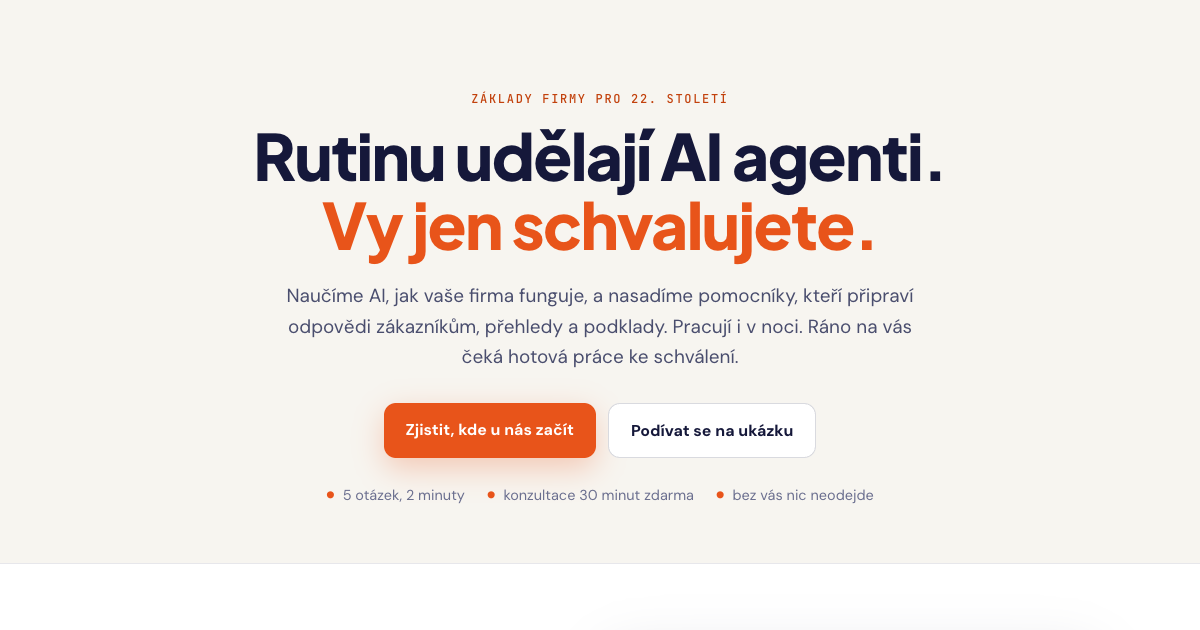
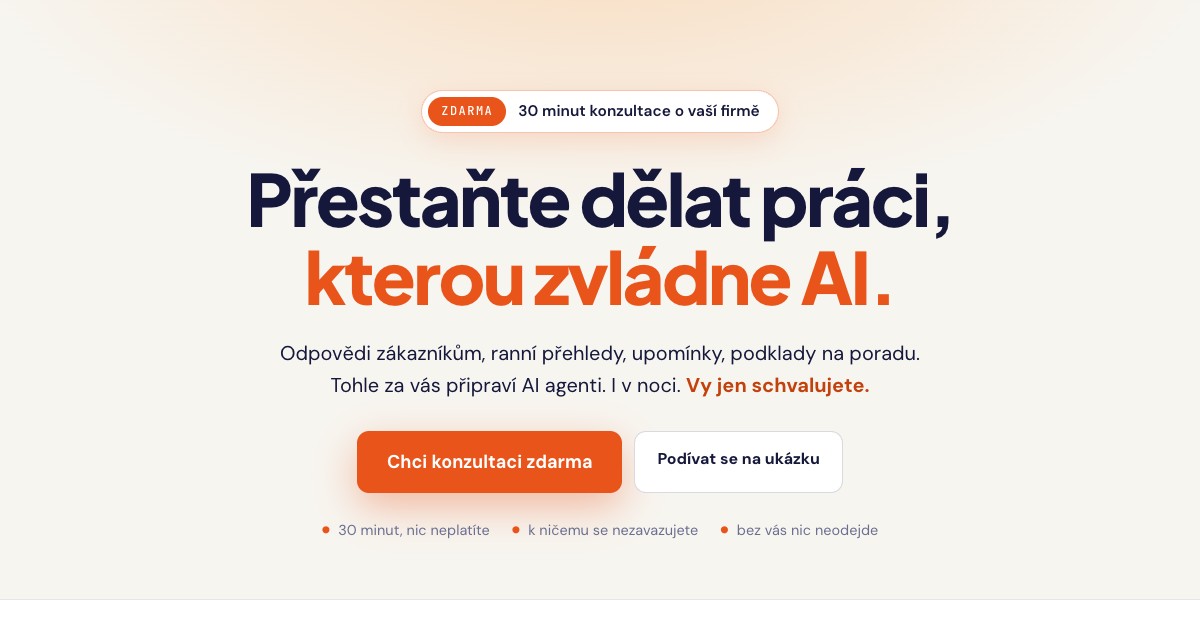
Krátká verze: důraz na konzultaci 30 minut zdarma, grafický postup ve čtyřech krocích

diff --git a/start/index.html b/start/index.html
@@ -3,14 +3,14 @@
 <head>
 <meta charset="utf-8">
 <meta name="viewport" content="width=device-width, initial-scale=1">
-<title>Fundament 22 — rutinu udělají AI agenti, vy schvalujete</title>
+<title>AI agenti pro firmy: konzultace 30 minut zdarma | Fundament 22</title>
 <meta name="description" content="Naučíme AI, jak vaše firma funguje, a nasadíme agenty, kteří připraví odpovědi zákazníkům, přehledy a podklady. Pět otázek a uvidíte, kde u vás začít. Konzultace 30 minut zdarma.">
 <meta name="robots" content="noindex, nofollow">
 <link rel="canonical" href="https://adamku8.github.io/fundament22/start/">
 <meta property="og:type" content="website">
 <meta property="og:locale" content="cs_CZ">
 <meta property="og:site_name" content="Fundament 22">
-<meta property="og:title" content="Fundament 22 — rutinu udělají AI agenti, vy schvalujete">
+<meta property="og:title" content="Přestaňte dělat práci, kterou zvládne AI — Fundament 22">
 <meta property="og:description" content="Pět otázek a uvidíte tři agenty, kteří by u vás mohli běžet první. Konzultace 30 minut zdarma.">
 <meta property="og:url" content="https://adamku8.github.io/fundament22/start/">
 <meta property="og:image" content="https://adamku8.github.io/fundament22/assets/og-start.png">
@@ -85,6 +85,41 @@ section{padding:72px 0}
 .fit .yes li::before{content:"✓";color:#127552}.fit .nope li::before{content:"✕";color:#B3261E}
 .demo{display:flex;flex-wrap:wrap;gap:18px 30px;align-items:center;justify-content:space-between}
 .demo p{color:var(--ink2);margin-top:8px;max-width:560px}
+.hero{background:radial-gradient(900px 420px at 50% -80px,rgba(255,154,61,.28),transparent 70%)}
+.hero h1{font-size:clamp(38px,7vw,72px);letter-spacing:-.035em}
+.hero .lead{font-size:20px;color:var(--ink)}
+.hero .lead b{color:var(--or2)}
+.free{display:inline-flex;align-items:center;gap:12px;margin-bottom:26px;padding:6px 18px 6px 6px;border-radius:999px;background:#fff;border:1px solid rgba(232,84,26,.35);box-shadow:0 8px 26px rgba(232,84,26,.14);font-weight:600;font-size:15.5px;color:var(--ink);text-decoration:none}
+.free b{background:var(--or);color:#fff;border-radius:999px;padding:5px 13px;font-family:var(--mono);font-size:12px;letter-spacing:.12em;text-transform:uppercase}
+.btn.big{font-size:18px;padding:17px 30px;box-shadow:0 14px 40px rgba(232,84,26,.38)}
+.btn.white{background:#fff;color:var(--or2);box-shadow:0 10px 30px rgba(0,0,0,.18);white-space:nowrap}
+.btn.white:hover{color:var(--or2)}
+.flow{list-style:none;padding:0;margin:44px 0 0;display:grid;grid-template-columns:repeat(4,1fr);gap:0;position:relative}
+.flow::before{content:"";position:absolute;left:12.5%;right:12.5%;top:27px;height:4px;border-radius:4px;background:linear-gradient(90deg,var(--or) 0,var(--or) 34%,rgba(21,24,58,.16) 34%)}
+.flow li{position:relative;padding:0 10px;text-align:center}
+.flow .dot{position:relative;z-index:1;display:grid;place-items:center;width:56px;height:56px;margin:0 auto 18px;border-radius:50%;background:#fff;border:3px solid rgba(21,24,58,.18);font-family:var(--disp);font-weight:800;font-size:21px;color:var(--ink3)}
+.flow .free1 .dot{border-color:var(--or);color:var(--or2)}
+.flow .main .dot{background:var(--or);border-color:var(--or);color:#fff;width:68px;height:68px;margin-top:-6px;margin-bottom:12px;font-size:26px;box-shadow:0 0 0 8px rgba(232,84,26,.16)}
+.flow .tag{display:inline-block;font-family:var(--mono);font-size:11px;letter-spacing:.08em;text-transform:uppercase;color:var(--ink3);background:rgba(21,24,58,.06);border-radius:999px;padding:4px 10px;margin-bottom:10px}
+.flow .free1 .tag{background:#FFF0E6;color:var(--or2)}
+.flow .main .tag{background:var(--or);color:#fff}
+.flow h3{font-size:20px}
+.flow p{font-size:15.5px;color:var(--ink2);margin-top:6px}
+.flow .main .fb{background:#fff;border:1px solid rgba(232,84,26,.45);border-radius:16px;padding:16px 14px;box-shadow:0 18px 50px rgba(232,84,26,.12)}
+.flow li:not(.main) .fb{padding:16px 6px}
+.flownote{margin-top:26px;text-align:center;font-weight:600;color:var(--ink2)}
+@media(max-width:820px){
+.flow{grid-template-columns:1fr;gap:18px;margin-top:32px}
+.flow::before{left:27px;right:auto;top:28px;bottom:60px;width:4px;height:auto;background:linear-gradient(180deg,var(--or) 0,var(--or) 34%,rgba(21,24,58,.16) 34%)}
+.flow li{display:flex;gap:16px;text-align:left;padding:0;align-items:flex-start}
+.flow .dot,.flow .main .dot{flex:none;width:56px;height:56px;margin:0;font-size:21px}
+.flow li:not(.main) .fb{padding:4px 0 0}
+.flow .fb{flex:1}
+}
+.band{background:var(--or);color:#fff;padding:52px 0;background-image:linear-gradient(100deg,#FF8A2A,#E8541A 50%,#C8327E)}
+.band .wrap{display:flex;flex-wrap:wrap;gap:22px 40px;align-items:center;justify-content:space-between}
+.band h2{color:#fff;font-size:clamp(28px,4.4vw,44px)}
+.band p{margin-top:10px;font-size:18px;max-width:560px;color:#FFE9DC}
 /* ---------- online analýza (formulář z FIREMNI AI) ---------- */
 .az{background:var(--dark);color:#fff;padding:80px 0;background-image:radial-gradient(900px 500px at 85% -10%,rgba(200,50,126,.22),transparent 60%),radial-gradient(700px 420px at -10% 110%,rgba(255,154,61,.14),transparent 60%);scroll-margin-top:60px;
 --line:#3a3e5e;--muted:#a9adcb;--soft:#d9dbef;--acard:#1d2150;--bg2:#15183a;--o1:#ff9a3d;font-family:var(--disp);font-size:16px;line-height:1.5}
@@ -159,22 +194,22 @@ footer a{color:#C9CCE6}
 <body>
 <header class="top"><div class="wrap">
 <a class="logo" href="../" aria-label="Fundament 22"><svg viewBox="0 0 28 28" width="26" height="26" aria-hidden="true"><rect width="28" height="28" rx="8" fill="#E8541A"/><path d="M9.5 18.5L18.5 9.5" stroke="#fff" stroke-width="2.6" stroke-linecap="round"/><circle cx="9.5" cy="18.5" r="3.6" fill="#fff"/><circle cx="18.5" cy="9.5" r="3.6" fill="#15183A"/></svg>Fundament 22</a>
-<a class="btn sm" href="#analyza">Zjistit, kde začít</a>
+<a class="btn sm" href="#analyza">Konzultace zdarma</a>
 </div></header>
 
 <main>
 <section class="hero"><div class="wrap">
-<p class="eyebrow">Základy firmy pro 22. století</p>
-<h1>Rutinu udělají AI agenti.<br><span>Vy jen schvalujete.</span></h1>
-<p class="lead">Naučíme AI, jak vaše firma funguje, a nasadíme pomocníky, kteří připraví odpovědi zákazníkům, přehledy a podklady. Pracují i v noci. Ráno na vás čeká hotová práce ke schválení.</p>
-<div class="cta"><a class="btn" href="#analyza">Zjistit, kde u nás začít</a><a class="btn ghost" href="../demo/">Podívat se na ukázku</a></div>
-<ul class="pills"><li>5 otázek, 2 minuty</li><li>konzultace 30 minut zdarma</li><li>bez vás nic neodejde</li></ul>
+<a class="free" href="#analyza"><b>Zdarma</b>30 minut konzultace o vaší firmě</a>
+<h1>Přestaňte dělat práci,<br><span>kterou zvládne AI.</span></h1>
+<p class="lead">Odpovědi zákazníkům, ranní přehledy, upomínky, podklady na poradu. Tohle za vás připraví AI agenti. I v noci. <b>Vy jen schvalujete.</b></p>
+<div class="cta"><a class="btn big" href="#analyza">Chci konzultaci zdarma</a><a class="btn ghost" href="../demo/">Podívat se na ukázku</a></div>
+<ul class="pills"><li>30 minut, nic neplatíte</li><li>k ničemu se nezavazujete</li><li>bez vás nic neodejde</li></ul>
 </div></section>
 
 <section class="white"><div class="wrap split">
 <div>
 <p class="eyebrow">Jak vypadá ráno</p>
-<h2>Přijdete do práce a půlka je hotová.</h2>
+<h2>Přijdete do práce a&nbsp;půlka je hotová.</h2>
 <p class="sub">Agent není chatovací okno, do kterého musíte psát. Je to pomocník s jednou jasnou prací. Udělá ji sám podle plánu a výsledek vám pošle tam, kde už pracujete, třeba do Slacku nebo e-mailu.</p>
 <p class="sub">Vy návrh schválíte, upravíte, nebo vrátíte. Když si agent není jistý, řekne to a nechá rozhodnutí na vás.</p>
 </div>
@@ -201,18 +236,25 @@ footer a{color:#C9CCE6}
 <a class="btn ghost" href="../demo/">Otevřít ukázku</a>
 </div></section>
 
-<section><div class="wrap">
-<p class="eyebrow">Jak začít</p>
-<h2>Nejdřív si popovídáme. Zdarma.</h2>
-<div class="grid3">
-<div class="card hl"><div class="n">Krok 1</div><h3>Konzultace</h3><p>Půl hodiny po telefonu nebo online. Projdeme, co vás pálí a kde by agent pomohl nejdřív. Přístupy do systémů nepotřebujeme.</p><div class="price">Zdarma</div></div>
-<div class="card"><div class="n">Krok 2</div><h3>První analýza</h3><p>Podíváme se na vaše data a spočítáme, kde se ztrácí nejvíc času. Dostanete čísla a zkušební přehled své firmy.</p><div class="price">Cena podle rozsahu</div></div>
-<div class="card"><div class="n">Krok 3</div><h3>Zavedení a péče</h3><p>Postavíme, co dává smysl, naučíme s tím vaše lidi a hlídáme, že to běží. Můžete skončit po každém kroku.</p><div class="price">Nabídka po analýze</div></div>
-</div>
+<section id="postup"><div class="wrap">
+<p class="eyebrow">Jak to proběhne</p>
+<h2>Čtyři kroky. První dva vás nestojí nic.</h2>
+<ol class="flow">
+<li class="free1"><span class="dot">1</span><div class="fb"><span class="tag">2 minuty · zdarma</span><h3>Pět otázek</h3><p>Odpovíte dole na stránce. Hned uvidíte tři agenty, kteří by u vás mohli běžet první.</p></div></li>
+<li class="main"><span class="dot">2</span><div class="fb"><span class="tag">30 minut · zdarma</span><h3>Konzultace</h3><p>Zavoláme si. Projdeme, co vás pálí a kde začít. Přístupy do systémů nepotřebujeme.</p></div></li>
+<li><span class="dot">3</span><div class="fb"><span class="tag">cena podle rozsahu</span><h3>První analýza</h3><p>Na vašich datech spočítáme, kde se ztrácí nejvíc času. Dostanete čísla a zkušební přehled firmy.</p></div></li>
+<li><span class="dot">4</span><div class="fb"><span class="tag">nabídka po analýze</span><h3>Zavedení a péče</h3><p>Postavíme, co dává smysl, zaučíme vaše lidi a hlídáme, že to běží.</p></div></li>
+</ol>
+<p class="flownote">Po každém kroku se rozhodujete znovu. Když to nedává smysl, skončíme.</p>
 <div class="fit">
 <div class="card yes"><h3>Dává to smysl, když</h3><ul><li>je vás ve firmě aspoň 15</li><li>se u vás opakuje hodně stejné práce</li><li>máte člověka, který si to vezme za své</li></ul></div>
 <div class="card nope"><h3>Zatím to není pro vás, když</h3><ul><li>je vás pár a všechno víte z hlavy</li><li>čekáte, že AI nahradí lidi</li><li>nechcete nikomu říct, jak má firma fungovat</li></ul></div>
 </div>
+</div></section>
+
+<section class="band"><div class="wrap">
+<div><h2>30 minut. Zdarma. K&nbsp;ničemu se&nbsp;nezavazujete.</h2><p>Odpovězte na pět otázek a ozveme se s termínem. Na konzultaci už budeme vědět, o čem mluvit.</p></div>
+<a class="btn white" href="#analyza">Začít pěti otázkami ↓</a>
 </div></section>
 
 <section class="az" id="analyza"><div class="in">
